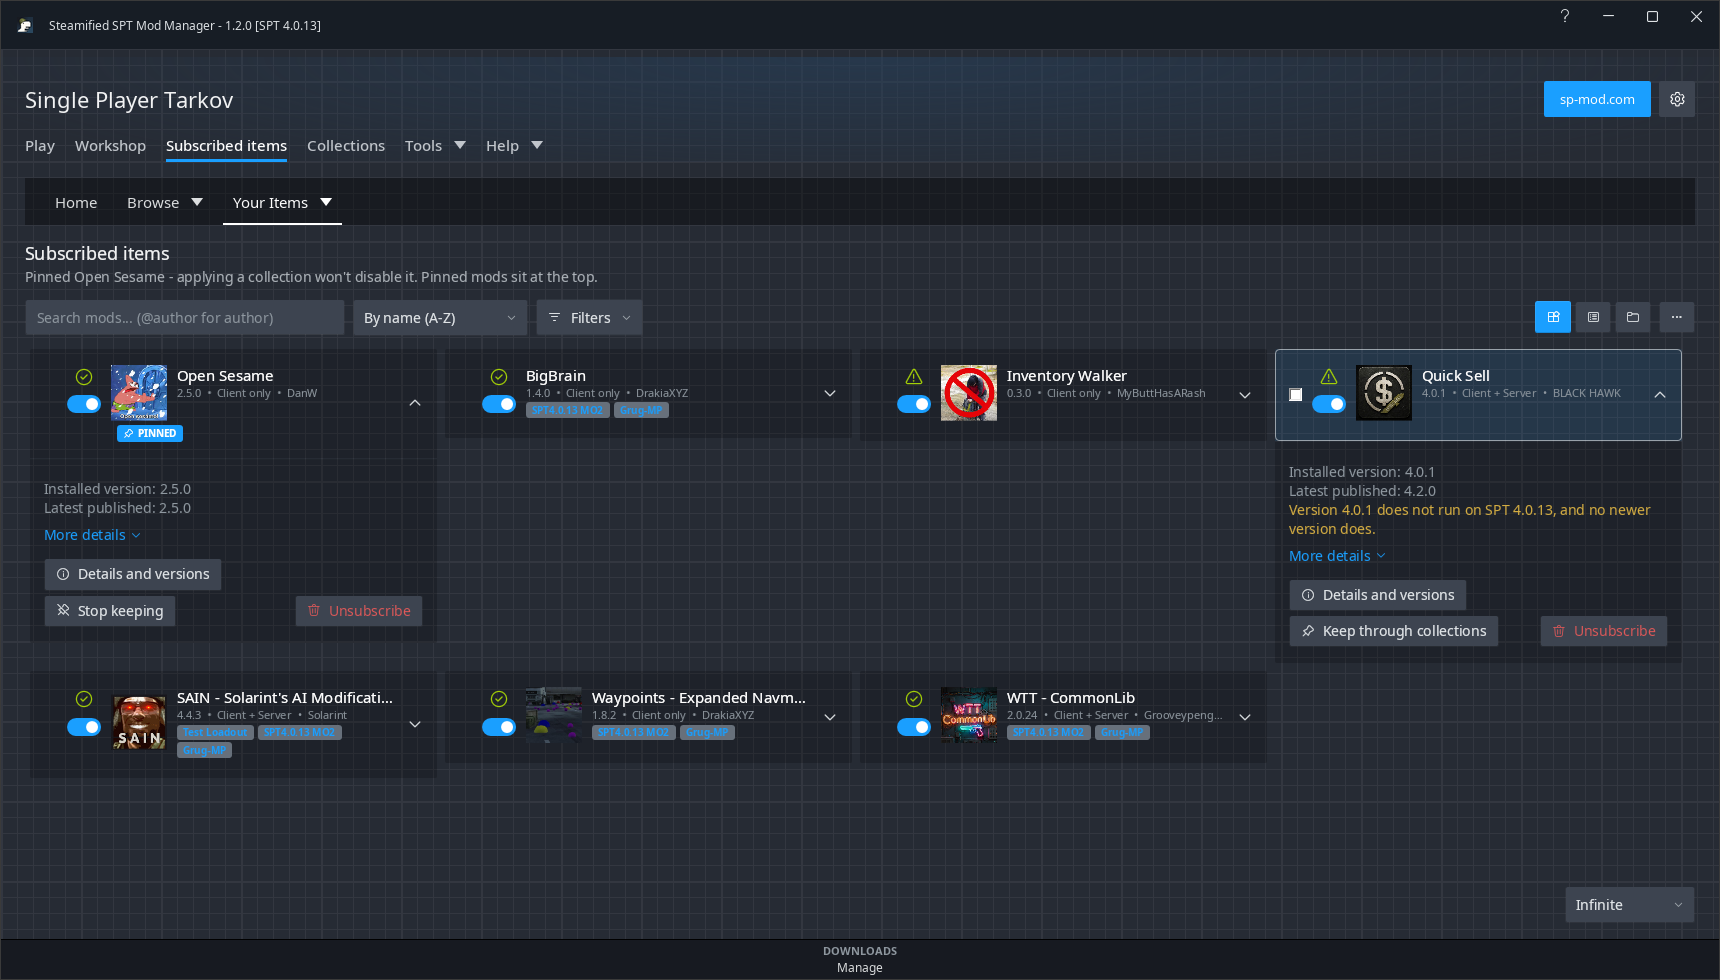
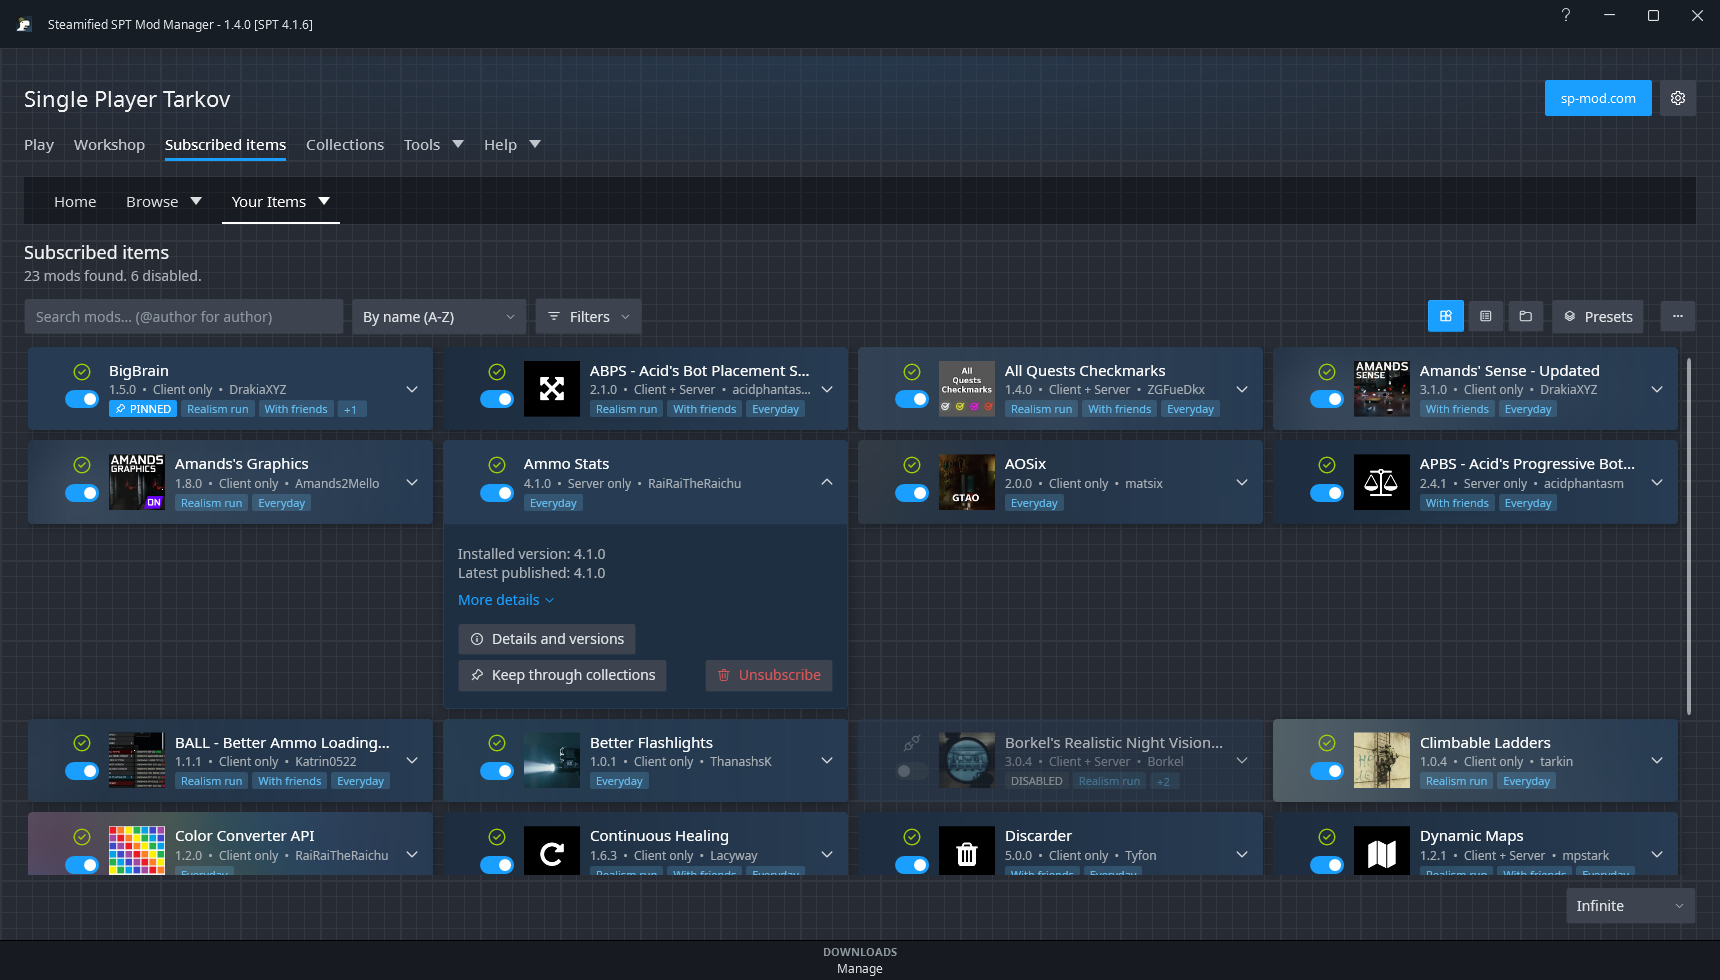
1.4.0: version, changelog, Subscribed items pictures
docs/images 07, 07b and 07c are retaken with the new rows (a copy of the app with two dozen well-known mods and made-up collection names). 01, 01b and 14 still show 1.3.1's Play and Options pages and need retaking on a real install.

diff --git a/CHANGELOG.md b/CHANGELOG.md
@@ -1,3 +1,30 @@
+# SSPTMM 1.4.0
+
+## Updating
+
+From 1.3.0 or 1.3.1: Help > About > **Install update**. From an older version: close SSPTMM, download `SSPTMM-1.4.0-win-x64.zip` and copy the contents of its `SSPTMM` folder over your SSPTMM folder. Your settings in `Data` stay as they are.
+
+## New
+
+- **Subscribed items looks like Steam's own lists.** A mod's card, List row and Groups row are now drawn the way Steam draws the rows of *Your Workshop Files*: a navy panel with a soft shadow and no outline, and behind it the mod's own picture, out of focus and fading to the right. Under the pointer a card lightens and its shadow turns white, as a Browse card's does. Before, the cards were see-through boxes that the page's grid ran through, with small grey text.
+- **Easier to read.** The line under a mod's name (version, client or server, author) is larger and lighter. The tags under it - DISABLED, PINNED, RE-UPLOADED, the group and the collections - are one shape on one line, in line with the name; collections that don't fit are counted in a **+2** with their names in its tooltip. Every closed card is now the same height.
+- **Sort by Enabled first or Disabled first** on Subscribed items, each half by name.
+- **Play starts the game from SSPTMM by default.** *Start the game from SSPTMM* is no longer experimental: on a new setup, Play on the Play page starts the server and the game itself, with no SPT launcher window (SPT 4.1.3 to 4.1.6; on any other version Play opens the SPT launcher as before). If you already use SSPTMM, your setting stays as you left it - switch it on in Options if you want it. It is still not made or supported by the SPT team.
+- **Options > Picture behind each subscribed mod** switches the pictures behind the cards off, for a PC that scrolls the page slowly with them.
+
+## Faster
+
+- **Installing and updating.** Checking a mod's files used about a megabyte of memory per file however small the file was - 307 MB for a mod of 300 small files, now under 1 MB - and unzipping did the same. An update no longer re-reads every file of the old version that it is about to replace anyway, and removing a mod with thousands of files no longer re-checks the same folders for each one.
+- **Workshop Home** read the collections file once per card, forty times a visit; it now reads it three times.
+- **Typing in Browse's search**: the SPT-version check it runs on every mod for every letter typed takes a tenth of the time.
+- **Mod pictures are downloaded once.** The Browse card, the popup over it and the item page each fetched the same picture again; the popup's picture no longer starts blank.
+- **Starting up**: the saved catalog is read about three times faster.
+- **Subscribed items**: the install records are read once per scan, not twice.
+
+## Fixed
+
+- **Smooth scrolling no longer stops for a moment as Subscribed items reaches more mods.** The page added 24 cards at once when you neared the end of what was loaded; it now adds them two at a time, further ahead.
+- **A mod no longer shows the same collection twice** among its tags (seen on a pinned mod).
 # SSPTMM 1.3.1
 
 ## Updating
